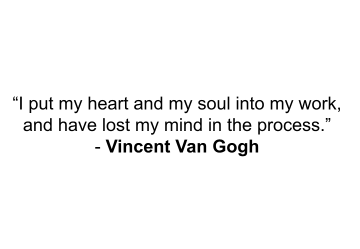
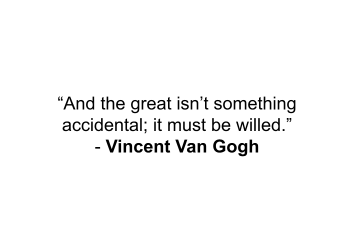
Descr: Updated quote.

Changed region(s): [[0.0306, 0.3655, 0.9472, 0.5622]]

diff --git a/index.html b/index.html
@@ -122,7 +122,7 @@
 					</a>
 					<div class="caption">
 						<h3>Vincent Van Gogh</h3>
-						<p>"I put my heart and my soul into my work, and have lost my mind in the process."</p>
+						<p>"And the great isn't something accidental; it must be willed."</p>
 					</div>
 				</article>
 
